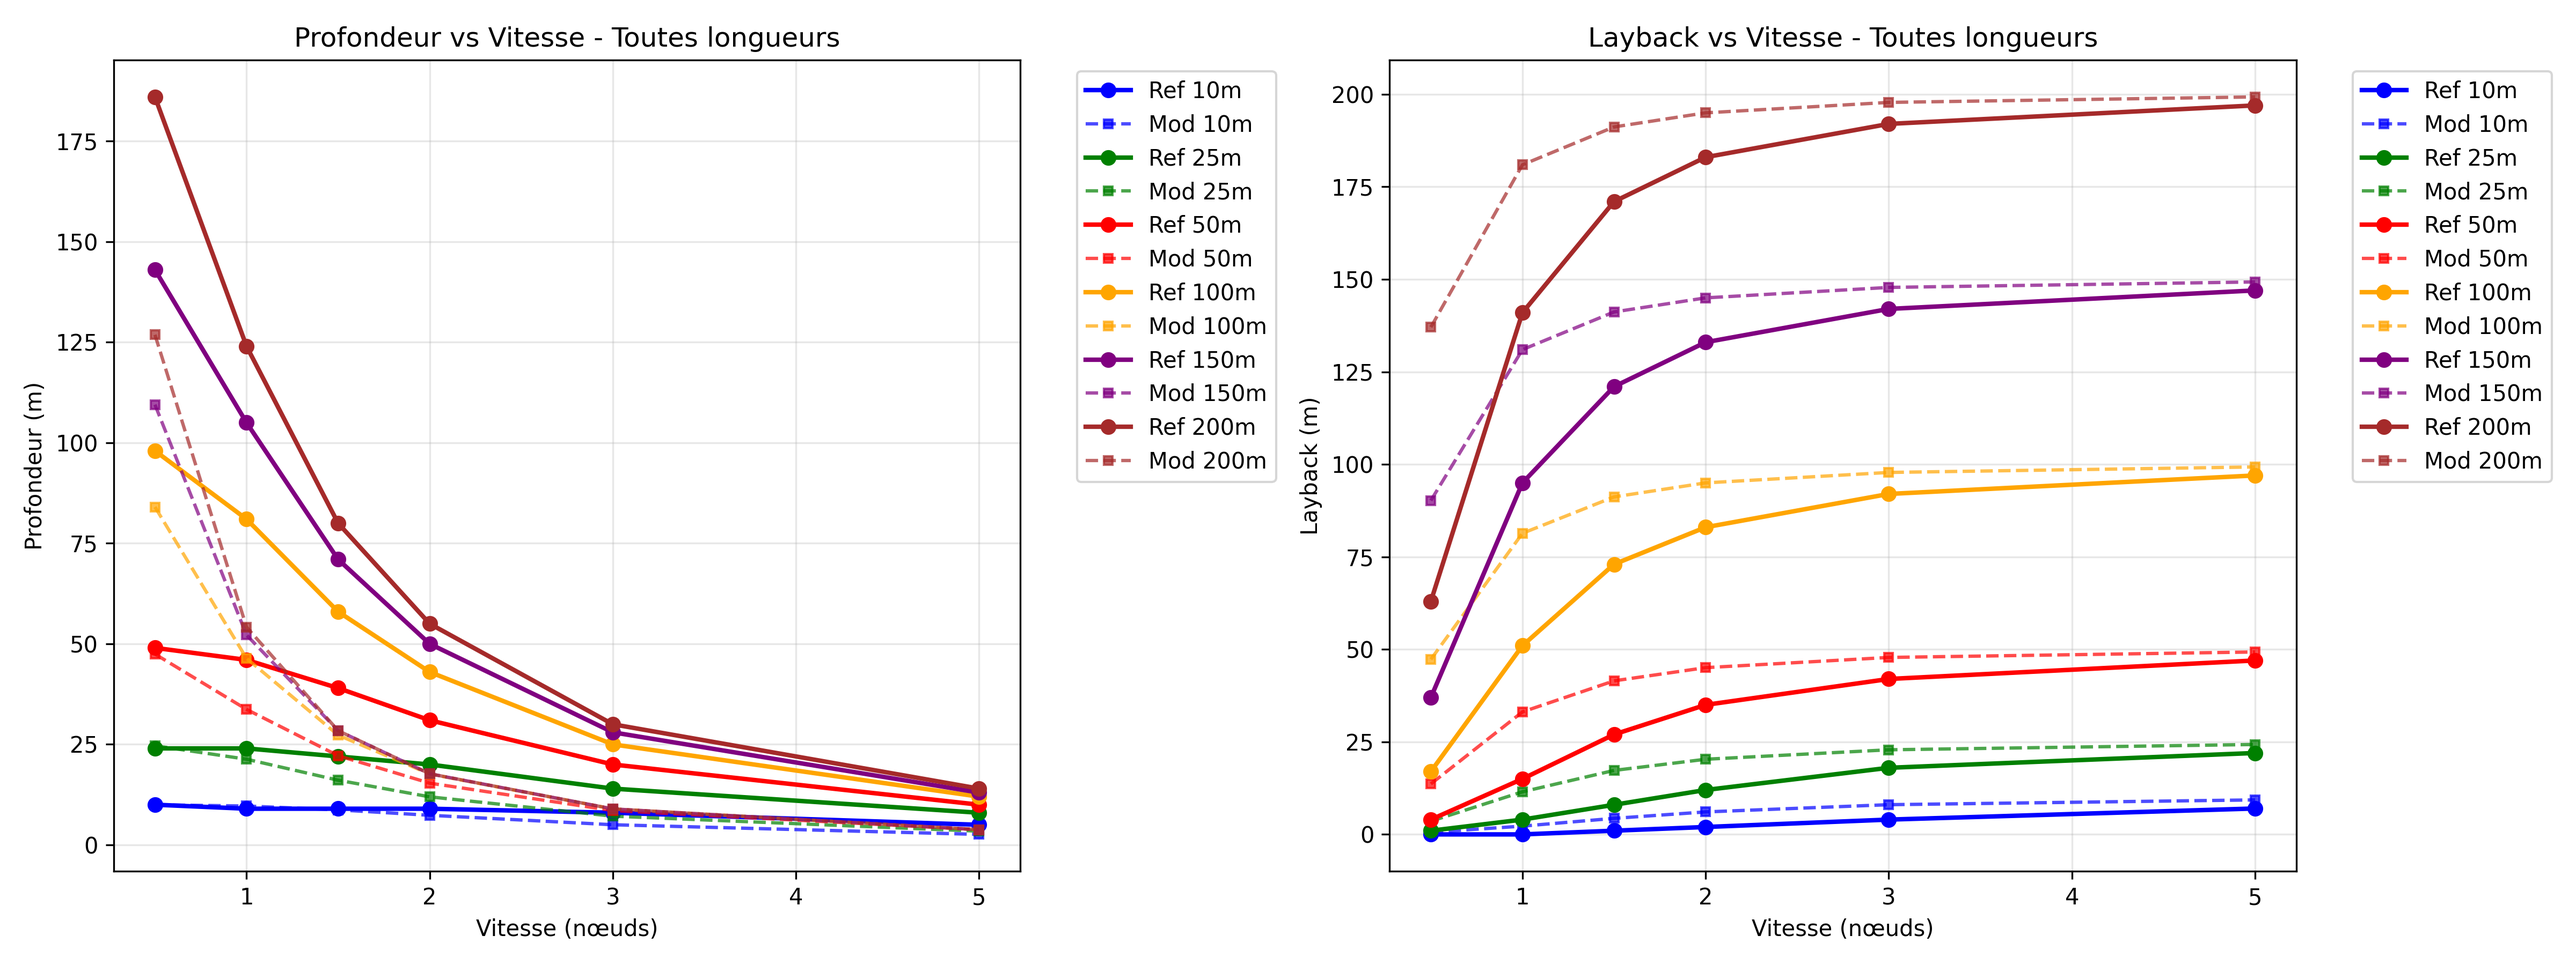
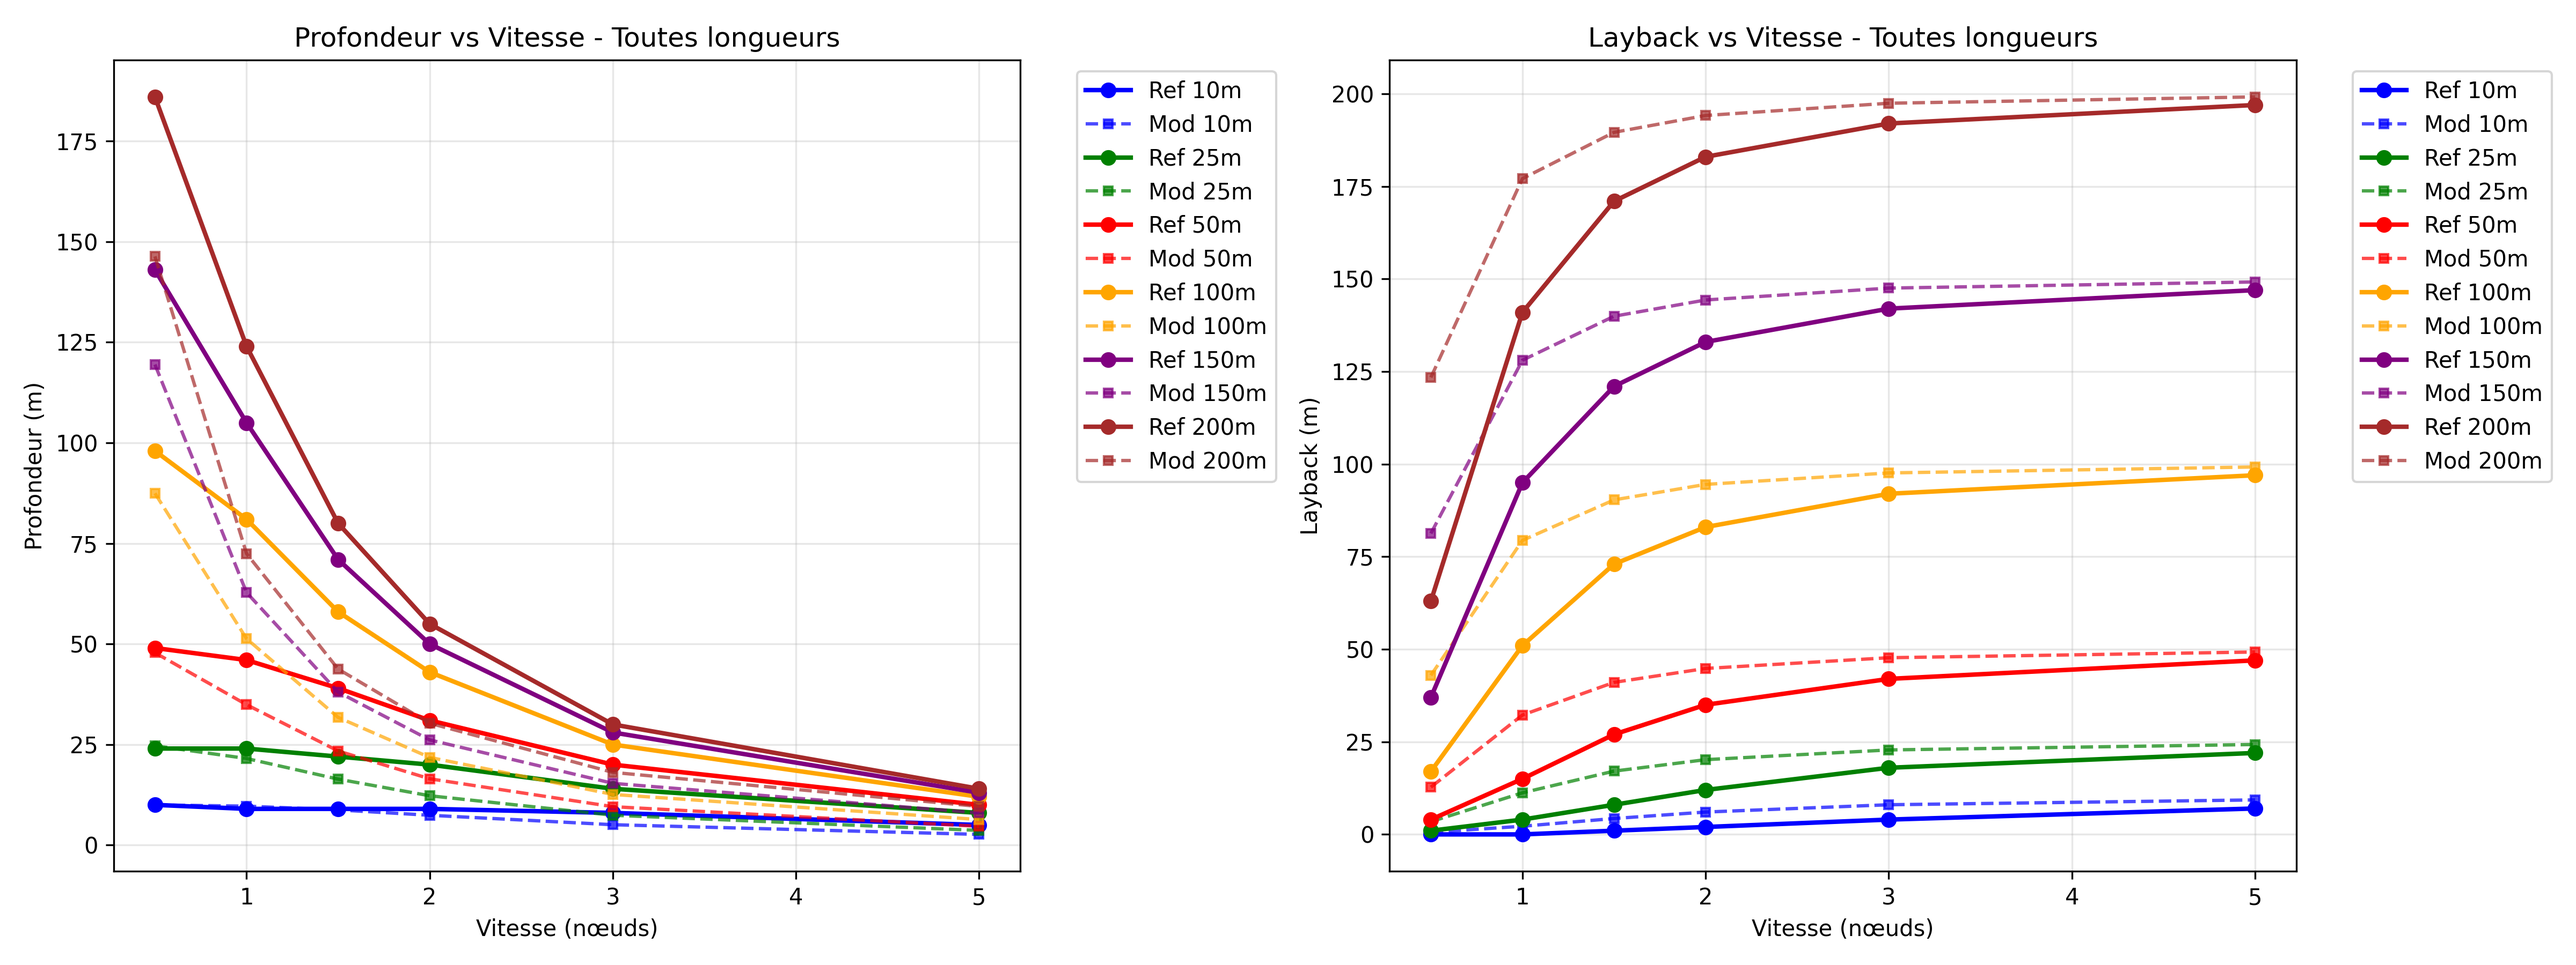
random

diff --git a/Claude_3.py b/Claude_3.py
@@ -1,0 +1,342 @@
+import numpy as np
+import matplotlib.pyplot as plt
+from scipy.optimize import fsolve
+import time
+
+
+def reynolds_number(rho, v, L_char, mu):
+    return rho * v * L_char / mu
+
+
+def find_alpha(Fx_i, Fy_i, g, rho, D_cable, d, deltaL, Cp, V):
+    def equation(alpha):
+        return (
+                Fy_i * np.sin(alpha) -
+                Fx_i * np.cos(alpha) +
+                0.5 * g * deltaL * ((rho * np.pi * D_cable ** 2) / 4 - d) -
+                0.25 * rho * Cp * D_cable * V ** 2 * np.cos(alpha) ** 2
+        )
+
+    alpha_guess = np.pi / 4
+    alpha_solution = fsolve(equation, alpha_guess)[0]
+    return alpha_solution
+
+
+def calculate_layback(
+        rho, v, mu, g, m,
+        Cp_sphere_sonar, Cf_cyl_sonar, S_sphere_sonar, S_cyl_sonar,
+        Cp_cable, Cf_cable, D_sonar, D_cable, L_cable, n, d,
+        alpha_1, Fx_1, Fy_1
+):
+    deltaL = L_cable / n
+    Fx = [Fx_1]
+    Fy = [Fy_1]
+    alpha = [alpha_1]
+
+    for i in range(n):
+        cos_alpha = np.cos(alpha[-1])
+        sin_alpha = np.sin(alpha[-1])
+
+        delta_Fx = 0.5 * rho * np.pi * D_cable * deltaL * v ** 2 * (
+                Cp_cable * cos_alpha ** 3 + Cf_cable * sin_alpha ** 3)
+
+        delta_Fy = (
+                0.5 * rho * np.pi * D_cable * deltaL * v ** 2 * cos_alpha * sin_alpha * (
+                -Cp_cable * cos_alpha + Cf_cable * sin_alpha)
+                + g * deltaL * ((rho * np.pi * D_cable ** 2) / 4 - d)
+        )
+
+        Fx_next = Fx[-1] - delta_Fx
+        Fy_next = Fy[-1] - delta_Fy
+
+        Fx.append(Fx_next)
+        Fy.append(Fy_next)
+
+        alpha_next = find_alpha(Fx_next, Fy_next, g, rho, D_cable, d, deltaL, Cp_cable, v)
+        alpha.append(alpha_next)
+
+    return Fx, Fy, alpha
+
+
+def run_simulation(v, L_cable, n=1000, initial_alpha_deg=None):
+    """Run simulation for given parameters"""
+    # === Paramètres de base ===
+    rho = 1027  # kg/m³
+    mu = ((1.89 + 0.8) / 2) * 1e-3  # Pa.s
+    g = 9.81  # m/s²
+    m = 6.7  # kg
+
+    Cp_cable = 1.1
+    Cf_cable = 0.004
+    D_sonar = 0.06  # m
+    D_cable = 0.00630  # m
+    L_sonar = 0.850  # m
+    Cp_sphere_sonar = 0.5
+    Cf_cyl_sonar = 0.002
+    S_sphere_sonar = np.pi * D_sonar ** 2
+    S_cyl_sonar = np.pi * D_sonar * L_sonar
+    d = 40 / 1000  # kg/m
+
+    # Tensions initiales
+    Tx = 0.5 * rho * v ** 2 * (Cp_sphere_sonar * S_sphere_sonar + Cf_cyl_sonar * S_cyl_sonar)
+    Ty = m * g
+
+    if initial_alpha_deg is None:
+        alpha_1 = np.pi / 2 - np.arctan2(Ty, Tx)
+    else:
+        alpha_1 = np.radians(initial_alpha_deg)
+
+    Fx_1 = -Tx
+    Fy_1 = -Ty
+
+    Fx, Fy, alpha = calculate_layback(
+        rho, v, mu, g, m,
+        Cp_sphere_sonar, Cf_cyl_sonar, S_sphere_sonar, S_cyl_sonar,
+        Cp_cable, Cf_cable, D_sonar, D_cable, L_cable, n, d,
+        alpha_1, Fx_1, Fy_1
+    )
+
+    # Calcul des positions
+    x = [0]
+    y = [0]
+    deltaL = L_cable / n
+
+    for i in range(n):
+        dx = deltaL * np.sin(alpha[i])
+        dy = deltaL * np.cos(alpha[i])
+        x.append(x[-1] + dx)
+        y.append(y[-1] + dy)
+
+    s = np.linspace(0, L_cable, n + 1)
+
+    return {
+        'x': x, 'y': y, 's': s, 'Fx': Fx, 'Fy': Fy, 'alpha': alpha,
+        'layback': x[-1], 'depth': y[-1], 'final_alpha': np.degrees(alpha[-1]),
+        'deltaL': deltaL
+    }
+
+
+# === ANALYSE DÉTAILLÉE DE LA LONGUEUR DU CÂBLE ===
+print("=== ANALYSE DÉTAILLÉE - LONGUEUR DU CÂBLE ===\n")
+
+# Paramètres fixes
+speed = 2.0  # m/s
+n_segments = 1000
+
+# Gamme étendue de longueurs de câble
+cable_lengths = np.array([10, 15, 20, 25, 30, 35, 40, 45, 50, 60, 70, 80, 90, 100, 120, 150, 200])
+
+# Collecte des données
+laybacks = []
+depths = []
+final_angles = []
+computation_times = []
+
+print("Calcul en cours pour différentes longueurs de câble...")
+for i, L in enumerate(cable_lengths):
+    start_time = time.time()
+    result = run_simulation(speed, L, n_segments)
+    end_time = time.time()
+
+    laybacks.append(result['layback'])
+    depths.append(result['depth'])
+    final_angles.append(result['final_alpha'])
+    computation_times.append(end_time - start_time)
+
+    print(f"L = {L:3.0f}m: layback = {result['layback']:6.2f}m, depth = {result['depth']:6.2f}m, "
+          f"angle final = {result['final_alpha']:5.1f}°, temps = {computation_times[-1] * 1000:.1f}ms")
+
+laybacks = np.array(laybacks)
+depths = np.array(depths)
+final_angles = np.array(final_angles)
+
+# === GRAPHIQUES DÉTAILLÉS ===
+fig = plt.figure(figsize=(16, 12))
+
+# 1. Profils de câbles pour longueurs sélectionnées
+plt.subplot(3, 3, 1)
+selected_lengths = [25, 50, 75, 100, 150, 200]
+colors = plt.cm.viridis(np.linspace(0, 1, len(selected_lengths)))
+
+for L, color in zip(selected_lengths, colors):
+    result = run_simulation(speed, L, n_segments)
+    plt.plot(result['x'], result['y'], label=f'L = {L}m', linewidth=2, color=color)
+
+plt.xlabel('Layback x (m)')
+plt.ylabel('Profondeur y (m)')
+plt.title('Profils de câbles - Différentes longueurs')
+plt.legend()
+plt.grid(True, alpha=0.3)
+plt.axis('equal')
+
+# 2. Layback vs Longueur (linéaire)
+plt.subplot(3, 3, 2)
+plt.plot(cable_lengths, laybacks, 'bo-', linewidth=2, markersize=6)
+plt.xlabel('Longueur du câble (m)')
+plt.ylabel('Layback (m)')
+plt.title('Layback vs Longueur du câble')
+plt.grid(True, alpha=0.3)
+
+# Ajout d'une régression linéaire
+coeffs = np.polyfit(cable_lengths, laybacks, 1)
+poly_line = np.poly1d(coeffs)
+plt.plot(cable_lengths, poly_line(cable_lengths), 'r--',
+         label=f'Régression: y = {coeffs[0]:.3f}x + {coeffs[1]:.2f}')
+plt.legend()
+
+# 3. Profondeur vs Longueur
+plt.subplot(3, 3, 3)
+plt.plot(cable_lengths, depths, 'go-', linewidth=2, markersize=6)
+plt.xlabel('Longueur du câble (m)')
+plt.ylabel('Profondeur (m)')
+plt.title('Profondeur vs Longueur du câble')
+plt.grid(True, alpha=0.3)
+
+# 4. Ratio Layback/Longueur
+plt.subplot(3, 3, 4)
+ratio_layback_length = laybacks / cable_lengths
+plt.plot(cable_lengths, ratio_layback_length, 'mo-', linewidth=2, markersize=6)
+plt.xlabel('Longueur du câble (m)')
+plt.ylabel('Ratio Layback/Longueur')
+plt.title('Efficacité du layback')
+plt.grid(True, alpha=0.3)
+
+# 5. Angle final vs Longueur
+plt.subplot(3, 3, 5)
+plt.plot(cable_lengths, final_angles, 'co-', linewidth=2, markersize=6)
+plt.xlabel('Longueur du câble (m)')
+plt.ylabel('Angle final (°)')
+plt.title('Angle final vs Longueur')
+plt.grid(True, alpha=0.3)
+
+# 6. Layback vs Longueur (échelle log-log)
+plt.subplot(3, 3, 6)
+plt.loglog(cable_lengths, laybacks, 'ro-', linewidth=2, markersize=6)
+plt.xlabel('Longueur du câble (m) - Log')
+plt.ylabel('Layback (m) - Log')
+plt.title('Layback vs Longueur (échelle log-log)')
+plt.grid(True, alpha=0.3)
+
+# Régression en échelle log
+log_coeffs = np.polyfit(np.log(cable_lengths), np.log(laybacks), 1)
+plt.loglog(cable_lengths, np.exp(log_coeffs[1]) * cable_lengths ** log_coeffs[0], 'g--',
+           label=f'Loi puissance: y = {np.exp(log_coeffs[1]):.3f} × x^{log_coeffs[0]:.3f}')
+plt.legend()
+
+# === ANALYSE DU PAS DE DISCRÉTISATION ===
+print("\n=== ANALYSE DU PAS DE DISCRÉTISATION ===\n")
+
+# Paramètres fixes pour l'analyse de convergence
+L_test = 100.0  # m
+discretization_steps = np.array([50, 100, 200, 500, 1000, 2000, 5000])
+
+laybacks_discretization = []
+depths_discretization = []
+computation_times_discretization = []
+
+print("Calcul en cours pour différents pas de discrétisation...")
+for n in discretization_steps:
+    start_time = time.time()
+    result = run_simulation(speed, L_test, n)
+    end_time = time.time()
+
+    laybacks_discretization.append(result['layback'])
+    depths_discretization.append(result['depth'])
+    computation_times_discretization.append(end_time - start_time)
+
+    print(f"n = {n:4.0f}: layback = {result['layback']:6.3f}m, depth = {result['depth']:6.3f}m, "
+          f"Δx = {result['deltaL'] * 1000:.2f}mm, temps = {computation_times_discretization[-1] * 1000:.1f}ms")
+
+laybacks_discretization = np.array(laybacks_discretization)
+depths_discretization = np.array(depths_discretization)
+
+# 7. Convergence du layback avec la discrétisation
+plt.subplot(3, 3, 7)
+plt.semilogx(discretization_steps, laybacks_discretization, 'bs-', linewidth=2, markersize=6)
+plt.xlabel('Nombre de segments n')
+plt.ylabel('Layback (m)')
+plt.title('Convergence - Layback vs Discrétisation')
+plt.grid(True, alpha=0.3)
+
+# Ligne de référence (valeur convergée)
+layback_ref = laybacks_discretization[-1]
+plt.axhline(y=layback_ref, color='r', linestyle='--', alpha=0.7,
+            label=f'Référence: {layback_ref:.3f}m')
+plt.legend()
+
+# 8. Erreur relative vs discrétisation
+plt.subplot(3, 3, 8)
+errors = np.abs(laybacks_discretization - layback_ref) / layback_ref * 100
+plt.loglog(discretization_steps, errors, 'rs-', linewidth=2, markersize=6)
+plt.xlabel('Nombre de segments n')
+plt.ylabel('Erreur relative (%)')
+plt.title('Erreur de convergence')
+plt.grid(True, alpha=0.3)
+
+# 9. Temps de calcul vs discrétisation
+plt.subplot(3, 3, 9)
+plt.loglog(discretization_steps, np.array(computation_times_discretization) * 1000, 'gs-', linewidth=2, markersize=6)
+plt.xlabel('Nombre de segments n')
+plt.ylabel('Temps de calcul (ms)')
+plt.title('Performance computationnelle')
+plt.grid(True, alpha=0.3)
+
+plt.tight_layout()
+plt.show()
+
+# === TABLEAUX RÉCAPITULATIFS ===
+print("\n=== TABLEAUX RÉCAPITULATIFS ===")
+
+print("\n1. EFFET DE LA LONGUEUR DU CÂBLE (v=2m/s, n=1000):")
+print("Longueur | Layback | Profondeur | Ratio L/B | Angle final | Temps")
+print("---------|---------|------------|-----------|-------------|-------")
+for i, L in enumerate(cable_lengths):
+    ratio = laybacks[i] / L
+    print(
+        f"{L:8.0f} | {laybacks[i]:7.2f} | {depths[i]:10.2f} | {ratio:9.3f} | {final_angles[i]:11.1f}° | {computation_times[i] * 1000:5.1f}ms")
+
+print(f"\nRégression linéaire: Layback = {coeffs[0]:.3f} × Longueur + {coeffs[1]:.2f}")
+print(f"Coefficient de corrélation R² = {np.corrcoef(cable_lengths, laybacks)[0, 1] ** 2:.6f}")
+
+print("\n2. ANALYSE DE CONVERGENCE (L=100m, v=2m/s):")
+print("Segments | Layback  | Profondeur | Δx (mm) | Erreur (%) | Temps")
+print("---------|----------|------------|---------|------------|-------")
+for i, n in enumerate(discretization_steps):
+    delta_x = L_test / n * 1000  # en mm
+    error = np.abs(laybacks_discretization[i] - layback_ref) / layback_ref * 100
+    print(
+        f"{n:8.0f} | {laybacks_discretization[i]:8.3f} | {depths_discretization[i]:10.3f} | {delta_x:7.2f} | {error:10.4f} | {computation_times_discretization[i] * 1000:5.1f}ms")
+
+# === ANALYSE STATISTIQUE ===
+print("\n=== ANALYSE STATISTIQUE ===")
+
+print("\nSTATISTIQUES SUR LA RELATION LAYBACK-LONGUEUR:")
+print(f"• Pente moyenne: {coeffs[0]:.4f} (layback/longueur)")
+print(f"• Layback moyen par mètre de câble: {np.mean(laybacks / cable_lengths):.4f}")
+print(f"• Écart-type du ratio: {np.std(laybacks / cable_lengths):.4f}")
+print(f"• Coefficient de variation: {np.std(laybacks / cable_lengths) / np.mean(laybacks / cable_lengths) * 100:.2f}%")
+
+print(f"\nCONVERGENCE DE LA DISCRÉTISATION:")
+print(f"• Layback de référence (n=5000): {layback_ref:.4f}m")
+print(f"• Erreur à n=1000: {errors[4]:.4f}%")
+print(f"• Erreur à n=2000: {errors[5]:.4f}%")
+
+# Recommandation sur le nombre de segments
+recommended_n = discretization_steps[errors < 0.01][0] if any(errors < 0.01) else discretization_steps[-1]
+print(f"• Nombre de segments recommandé (erreur < 0.01%): n = {recommended_n}")
+
+print("\n=== CONCLUSIONS ===")
+print("1. RELATION LAYBACK-LONGUEUR:")
+print(f"   - Relation quasi-linéaire avec pente {coeffs[0]:.3f}")
+print(f"   - Pour chaque mètre de câble, le layback augmente de ~{coeffs[0]:.3f}m")
+print(f"   - Très haute corrélation (R² = {np.corrcoef(cable_lengths, laybacks)[0, 1] ** 2:.4f})")
+
+print("\n2. CONVERGENCE NUMÉRIQUE:")
+print(f"   - Convergence atteinte avec n ≥ {recommended_n} segments")
+print(f"   - Compromis performance/précision optimal: n = 1000-2000")
+print(f"   - Temps de calcul augmente linéairement avec n")
+
+print("\n3. RECOMMANDATIONS PRATIQUES:")
+print(f"   - Pour des calculs rapides: n = 500-1000")
+print(f"   - Pour une précision maximale: n ≥ 2000")
+print(f"   - La relation linéaire permet une extrapolation fiable")

diff --git a/claude_2.py b/claude_2.py
@@ -42,7 +42,7 @@ def calculate_layback(
         delta_Fy = (
                 0.5 * rho * np.pi * D_cable * deltaL * v ** 2 * cos_alpha * sin_alpha * (
                     -Cp_cable * cos_alpha + Cf_cable * sin_alpha)
-                + g * deltaL * ((rho * np.pi * D_cable ** 2) / 4 - d)
+                - g * deltaL * ((rho * np.pi * D_cable ** 2) / 4 - d)
         )
 
         Fx_next = Fx[-1] - delta_Fx

diff --git a/lay_back.py b/lay_back.py
@@ -70,7 +70,7 @@ Cf_cable = 0.004
 D_sonar = 0.06  # m (diamètre câble)
 D_cable = 0.00630
 L_sonar = 0.00850  # m (longueur totale)
-L_cable = 50 #à modifier
+L_cable = 200 #à modifier
 Cp_sphere_sonar = 0.5
 Cf_cyl_sonar = 0.002
 S_sphere_sonar = np.pi * D_sonar**2  # m²
